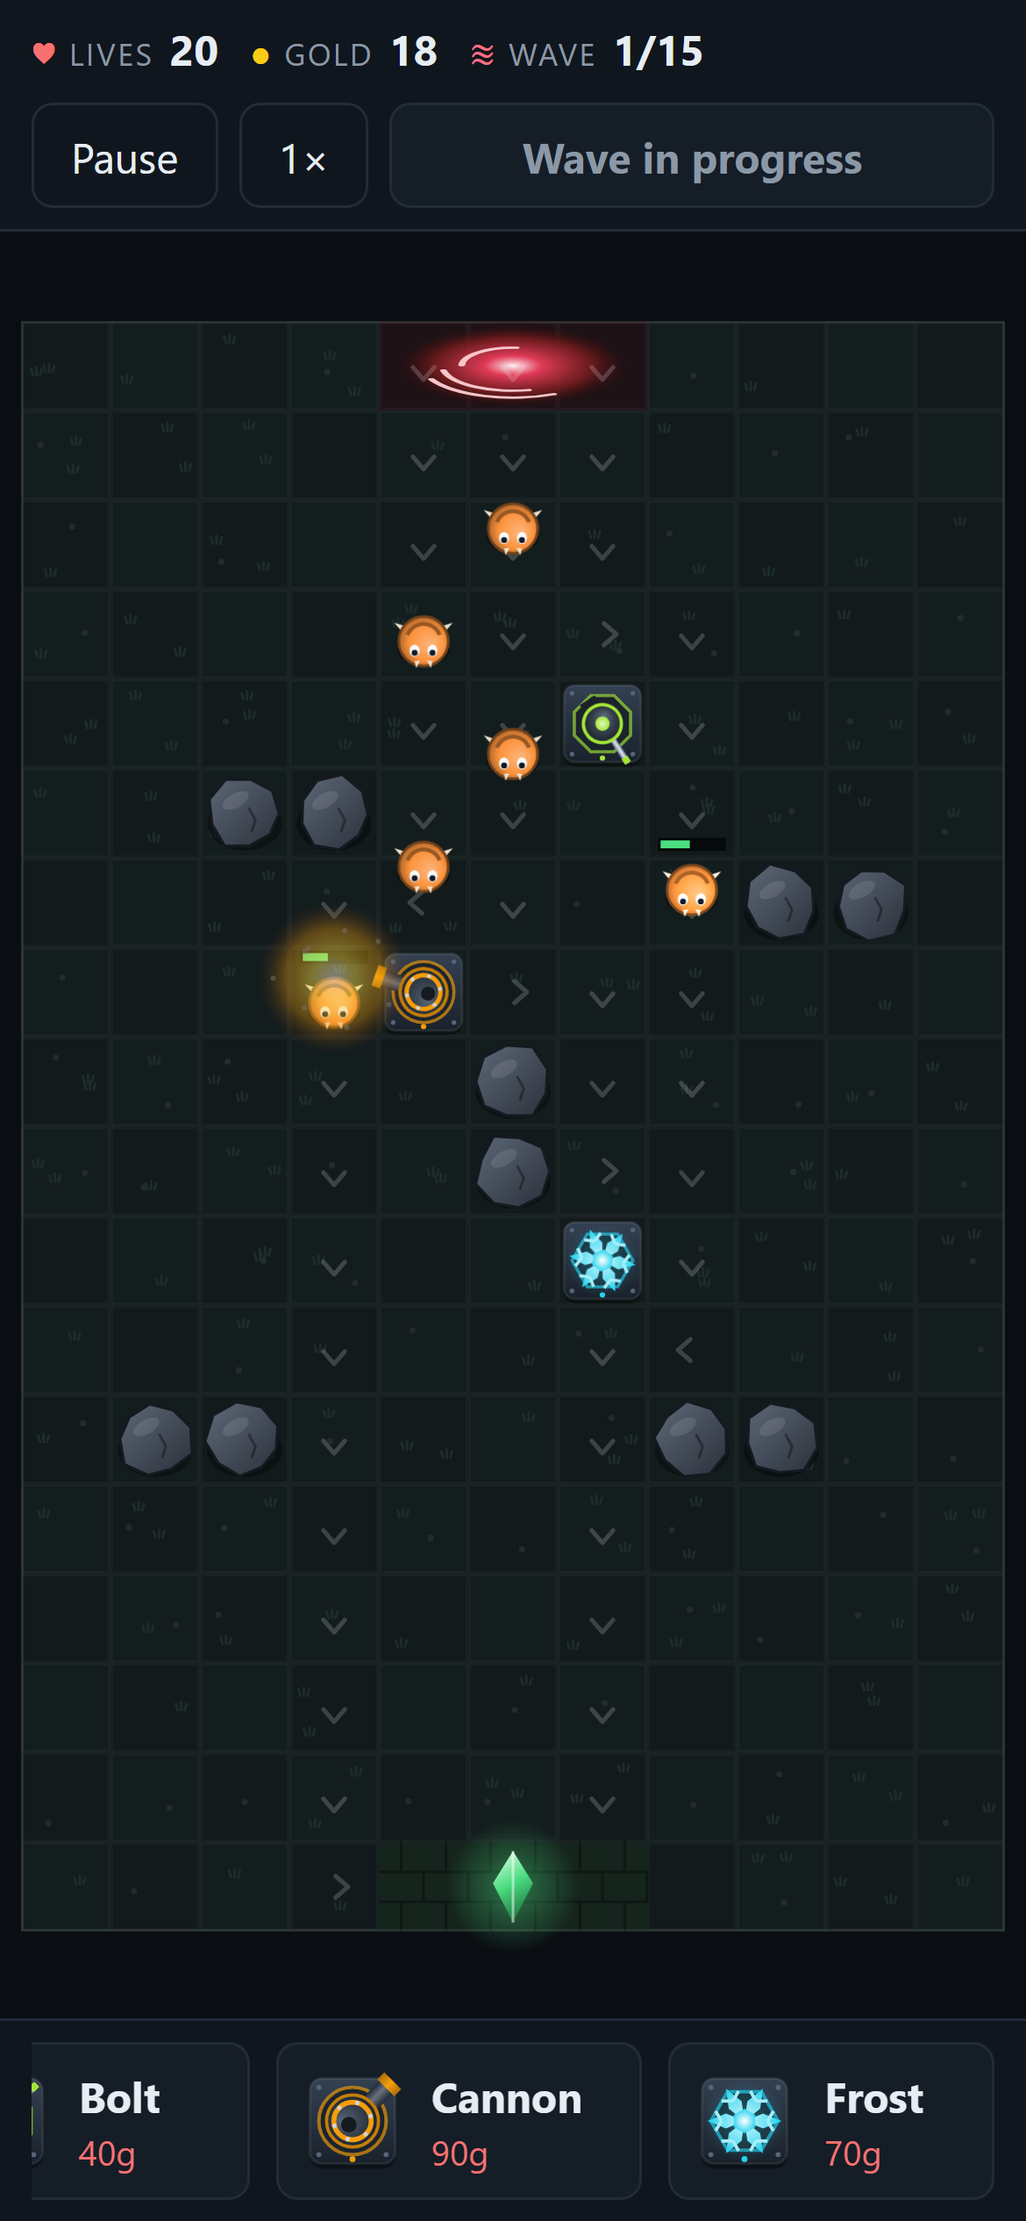
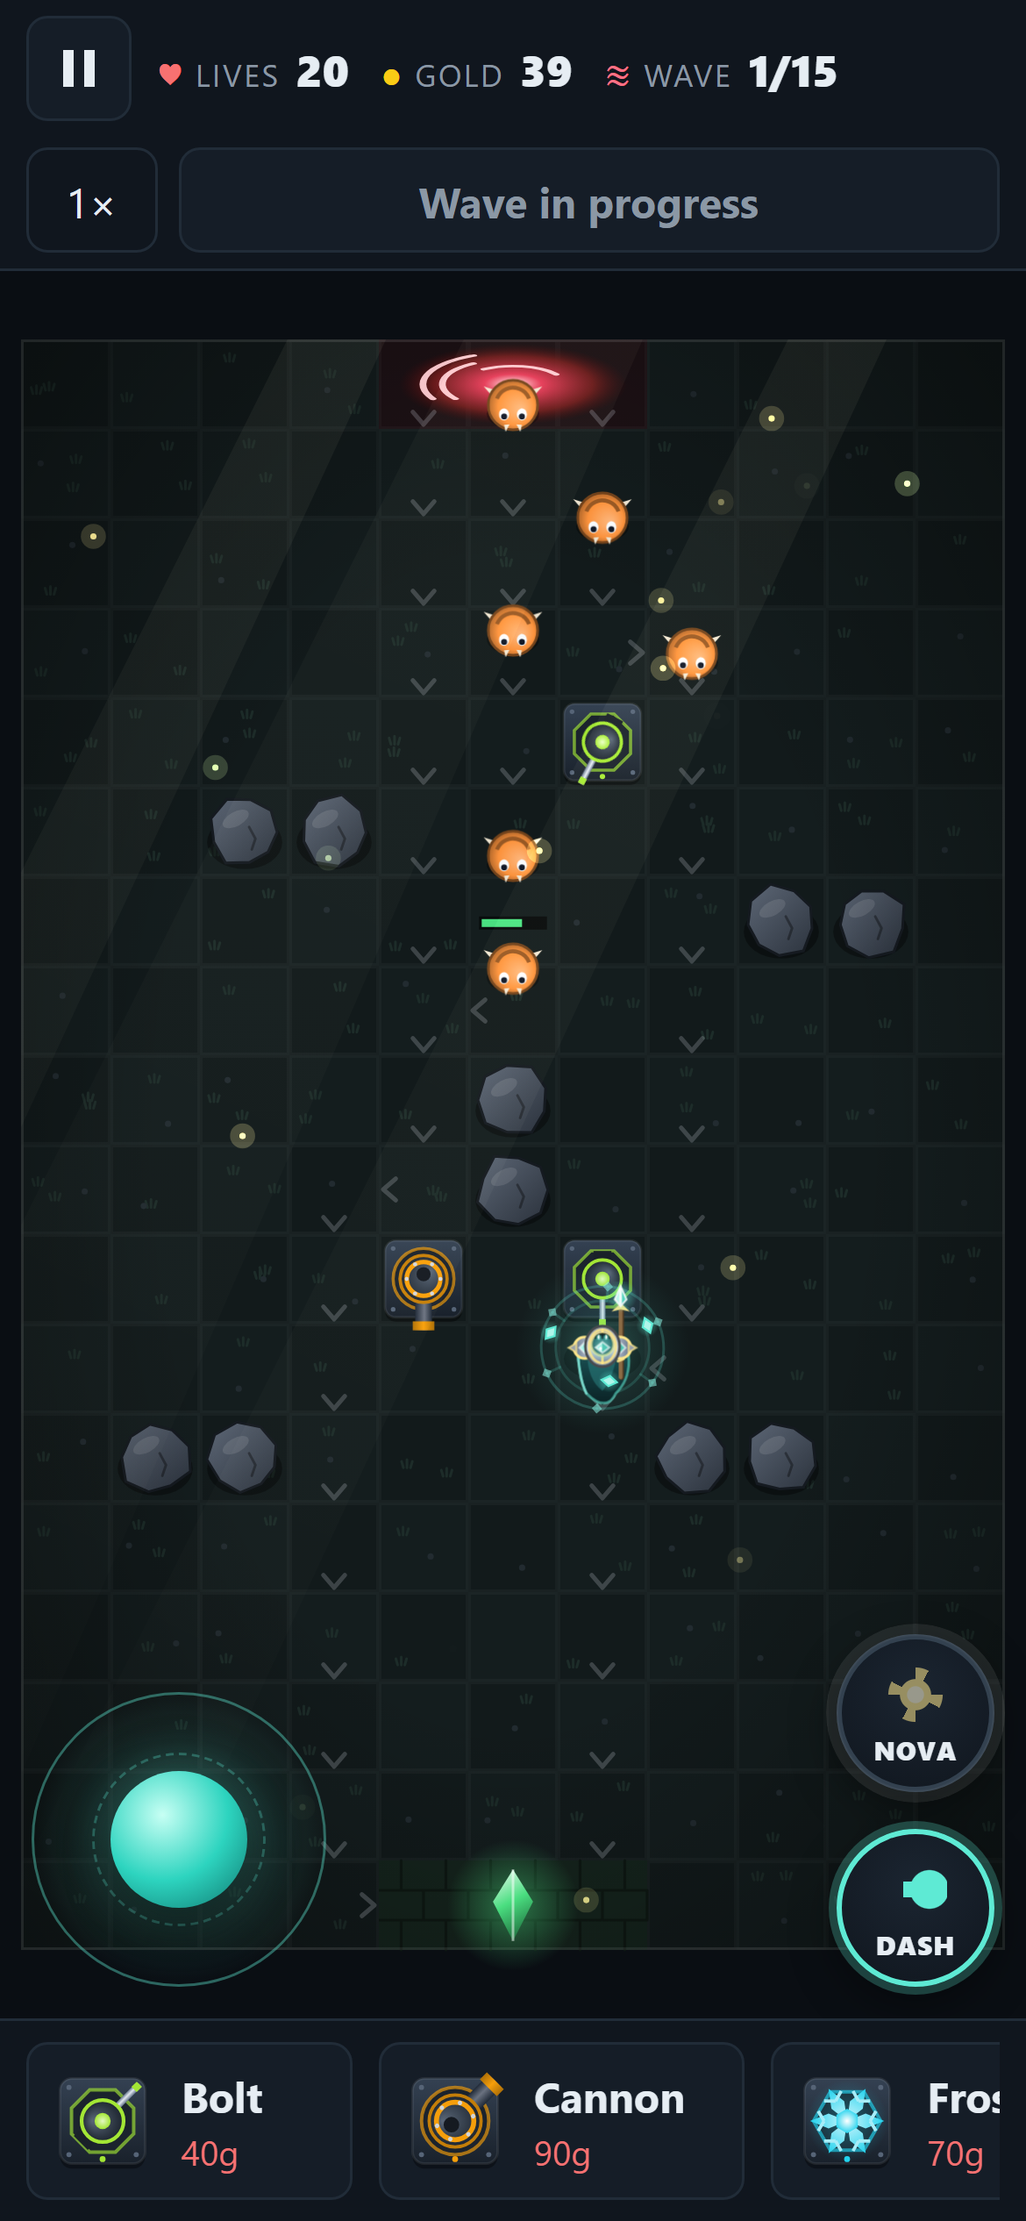
Refresh the README for v2: new pictures, hero ADR, mobile section, current numbers
The three README pictures are retaken from the current game by a new
scripts/readme-screenshots.mjs (npm run assets:readme): the home screen
with a campaign in progress, the Sentinel fighting in the Cinder Fields, and
the phone layout with the stick and hero buttons. The intro now describes
the campaign, Classic mode, six towers, ten monsters, powers, two languages
and the native shells; the architecture diagram gains the audio adapter and
the hero step; ADR 0004 records why the hero lives inside the deterministic
core; the testing table and balance report match today's suite; a Mobile
section explains the Capacitor shells.

diff --git a/README.md b/README.md
@@ -3,41 +3,46 @@
 [![CI](https://github.com/celilcecen/towerdefence/actions/workflows/ci.yml/badge.svg)](https://github.com/celilcecen/towerdefence/actions/workflows/ci.yml)
 [![CodeQL](https://github.com/celilcecen/towerdefence/actions/workflows/codeql.yml/badge.svg)](https://github.com/celilcecen/towerdefence/actions/workflows/codeql.yml)
 
-A maze-building tower defense game for the browser.
+A maze-building tower defense game with a hero on the field, for the browser and for phones.
 
 **▶ Play it: [play.yctechnologies.com.tr](https://play.yctechnologies.com.tr)**
 
-![Gridlock gameplay: towers firing at a wave of grunts on the way to the crystal](docs/screenshot.png)
+![Gridlock gameplay: the Sentinel fighting a wave of grunts in the Cinder Fields while towers line the lane](docs/screenshot.png)
 
 <table>
   <tr>
-    <td width="68%"><img src="docs/start-screen.png" alt="Start screen with how-to-play steps and a visual legend of towers and enemies" /></td>
-    <td width="32%"><img src="docs/mobile.png" alt="Phone layout: the board rotates so the route runs top to bottom" /></td>
+    <td width="68%"><img src="docs/start-screen.png" alt="Home screen: continue the campaign, the campaign map, classic mode, help and settings" /></td>
+    <td width="32%"><img src="docs/mobile.png" alt="Phone layout: the board rotates and the Sentinel is steered from a virtual stick with Dash and Nova buttons" /></td>
   </tr>
   <tr>
-    <td align="center">Start screen: rules and a visual legend drawn by the game's own renderer</td>
-    <td align="center">On phones the board rotates for bigger tap targets</td>
+    <td align="center">Home screen: a story campaign across four regions, plus the original Classic mode</td>
+    <td align="center">On phones the board rotates; the Sentinel is steered from a virtual stick</td>
   </tr>
 </table>
 
 Your towers are the walls. Enemies always take the shortest open route to the exit, so every
 tower you place reshapes the maze they have to walk. You can never seal the path completely;
-the game checks every placement before accepting it. Hold 15 waves across four tower types,
-three upgrade levels and four targeting strategies. And you are on the field too: the Sentinel
-runs the maze you build, fires at anything in reach, dashes through gaps and unleashes a crystal
-Nova when charged. Works with mouse, keyboard and touch (a virtual stick on phones).
+the game checks every placement before accepting it. A 12-level story campaign crosses four
+regions with six tower types, ten kinds of monster (flyers, healers, splitters, two bosses),
+three upgrade levels, four targeting strategies and two powers to aim by hand; Classic mode
+keeps the original 15 waves. And you are on the field too: the Sentinel runs the maze you
+build, fires at anything in reach, dashes through gaps and unleashes a crystal Nova when
+charged. Works with mouse, keyboard and touch (a virtual stick on phones), in English and
+Turkish, and ships as native Android and iOS shells.
 
 ## At a glance
 
-|                      |                                                                                    |
-| -------------------- | ---------------------------------------------------------------------------------- |
-| Runtime dependencies | **0**. TypeScript, Canvas 2D and the DOM only                                      |
-| Unit tests           | **277**, with **99% statement / 96% branch** coverage of all game logic            |
-| End-to-end tests     | **26**. Playwright on desktop and mobile Chromium, under the production CSP        |
-| Art assets           | **0 files**. Every tower, enemy and effect is drawn in code and cached as a sprite |
-| Balance guardrails   | Headless bots play the full campaign on 8 seeds in CI                              |
-| Static analysis      | `strictTypeChecked` ESLint, strictest TypeScript flags, CodeQL `security-extended` |
-| Delivery             | GitHub Actions pinned to commit SHAs, atomic releases with instant rollback        |
+|                      |                                                                                         |
+| -------------------- | --------------------------------------------------------------------------------------- |
+| Runtime dependencies | **0** on the web. TypeScript, Canvas 2D, Web Audio and the DOM only                     |
+| Unit tests           | **277**, with **99% statement / 96% branch** coverage of all game logic                 |
+| End-to-end tests     | **26**. Playwright on desktop and mobile Chromium, under the production CSP             |
+| Art and sound assets | **0 files**. Every tower, enemy, hero, effect and sound is generated in code            |
+| Balance guardrails   | Headless bots play all 12 levels and Classic on several seeds in CI                     |
+| Platforms            | Web (static, offline-capable), Android and iOS through [Capacitor](capacitor.config.ts) |
+| Languages            | English and Turkish, every string in [`src/i18n`](src/i18n)                             |
+| Static analysis      | `strictTypeChecked` ESLint, strictest TypeScript flags, CodeQL `security-extended`      |
+| Delivery             | GitHub Actions pinned to commit SHAs, atomic releases with instant rollback             |
 
 ## Architecture
 
@@ -51,15 +56,17 @@ flowchart LR
     UI["ui/<br/>DOM chrome"]
     Input["input/<br/>pointer + keyboard"]
     Render["render/<br/>Canvas 2D"]
-    Platform["platform/<br/>localStorage"]
+    Audio["audio/<br/>Web Audio synth"]
+    Platform["platform/<br/>storage + native bridge"]
   end
-  App["app/<br/>session + fixed-step loop"]
+  App["app/<br/>session, coach, fixed-step loop"]
   Core["core/<br/>deterministic simulation"]
-  Content["content/<br/>towers, enemies, waves, map"]
+  Content["content/<br/>campaign, story, towers, enemies, heroes, powers"]
 
   UI --> App
   Input --> App
   Render --> Core
+  Audio --> Core
   App --> Core
   Platform -. implements RecordStore port .-> Core
   Content --> Core
@@ -80,15 +87,19 @@ the core.
    `heroDash`, `heroNova`), validated at runtime. Even the hero's stick input is a command, so
    a replay log reproduces a whole game, hero and all.
 3. [`Simulation.step()`](src/core/simulation.ts) runs its systems in a fixed order: spawn →
-   move → abilities → hero → towers → projectiles → resolution.
+   move → abilities → hero → towers → projectiles → power cooldown → resolution.
 4. The renderer draws a read-only `WorldView`, interpolating between ticks for smooth motion.
    Procedural [artwork](src/render/art) is painted once per cell size into a
    [`SpriteCache`](src/render/sprite-cache.ts), so a frame is mostly `drawImage` calls; the
    terrain is a single cached layer.
-5. Systems publish typed events (`enemyKilled`, `waveCleared`, …); visual effects, turret aim
-   and UI subscribe without the core knowing they exist. Presentation wording (tower roles,
-   enemy traits, the next-wave preview) is [derived from content data](src/ui/describe.ts), so
-   new content explains itself.
+5. Systems publish typed events (`enemyKilled`, `waveCleared`, `heroNova`, …); visual
+   effects, turret aim, sound cues, haptics and UI subscribe without the core knowing they
+   exist. Presentation wording (tower roles, enemy traits, the next-wave preview) is
+   [derived from content data](src/ui/describe.ts), so new content explains itself.
+6. The [hero](src/core/systems/hero.ts) is ordinary simulation state driven by the same
+   commands as everything else. What makes it _look_ alive (a rippling cloak, recoil, dash
+   streaks, the Nova wash) lives entirely in [`src/render`](src/render/art/hero.ts) and reacts
+   to events.
 
 A seed plus the command log reproduces a game exactly, which the test suite verifies
 tick for tick with a state hash.
@@ -108,16 +119,18 @@ tick for tick with a state hash.
 - [ADR 0001: Deterministic, fixed-timestep simulation core](docs/adr/0001-deterministic-fixed-timestep-simulation.md)
 - [ADR 0002: Flow-field pathfinding instead of per-enemy A*](docs/adr/0002-flow-field-pathfinding.md)
 - [ADR 0003: Content as validated data, guarded by balance bots](docs/adr/0003-content-as-data-and-balance-bots.md)
+- [ADR 0004: The hero is a layer inside the deterministic core](docs/adr/0004-hero-as-a-layer-inside-the-core.md)
+  (see also the [Sentinel design note](docs/designs/sentinel-hero-layer.md))
 
 ## Testing strategy
 
-| Layer       | What it proves                                                                                                                                                                                                                           | Where                                            |
-| ----------- | ---------------------------------------------------------------------------------------------------------------------------------------------------------------------------------------------------------------------------------------- | ------------------------------------------------ |
-| Unit        | Grid parsing, flow field, damage and armor, slows, every targeting strategy, every command and rejection reason, content validation, session rules, loop timing, storage failure modes, sprite caching, turret aim, derived descriptions | [`tests/`](tests)                                |
-| Determinism | Same seed and commands give identical state every tick; replays equal live play                                                                                                                                                          | [`simulation.test.ts`](tests/simulation.test.ts) |
-| Balance     | Doing nothing loses fast, towers without a maze never win, a planned maze wins while still losing lives                                                                                                                                  | [`balance.test.ts`](tests/balance.test.ts)       |
-| End-to-end  | Real build, real headers, desktop and mobile: play, build, fight, upgrade, sell, shortcuts, visual legend, canvases actually painted; fails on any console error or CSP violation                                                        | [`e2e/`](e2e)                                    |
-| Deployment  | nginx sends exactly the headers the e2e suite ran under; HTML contains nothing the CSP would block                                                                                                                                       | [`deploy.test.ts`](tests/deploy.test.ts)         |
+| Layer       | What it proves                                                                                                                                                                                                                                                                                                                                                                                                               | Where                                                                                                    |
+| ----------- | ---------------------------------------------------------------------------------------------------------------------------------------------------------------------------------------------------------------------------------------------------------------------------------------------------------------------------------------------------------------------------------------------------------------------------- | -------------------------------------------------------------------------------------------------------- |
+| Unit        | Grid parsing, flow field, damage and armor, slows, every targeting strategy, every command and rejection reason, content and campaign validation, the hero (movement, wall sliding, eviction, fire, charge, dash, Nova, down and respawn), session rules, the onboarding coach, sound cues and limiter, translations, loop timing, storage failure modes, sprite caching, turret aim, effect timelines, derived descriptions | [`tests/`](tests)                                                                                        |
+| Determinism | Same seed and commands give identical state every tick, hero included; replays equal live play                                                                                                                                                                                                                                                                                                                               | [`simulation.test.ts`](tests/simulation.test.ts), [`hero.test.ts`](tests/hero.test.ts)                   |
+| Balance     | Doing nothing loses fast, towers without a maze never win, a planned maze wins every level while still losing lives; the bots never use the hero, so no level depends on it                                                                                                                                                                                                                                                  | [`balance.test.ts`](tests/balance.test.ts), [`campaign-balance.test.ts`](tests/campaign-balance.test.ts) |
+| End-to-end  | Real build, real headers, desktop and mobile: tutorial, campaign briefing and locks, classic mode, language switch, build, fight, upgrade, sell, shortcuts, steering the Sentinel from stick and keyboard, canvases actually painted; fails on any console error or CSP violation                                                                                                                                            | [`e2e/`](e2e)                                                                                            |
+| Deployment  | nginx sends exactly the headers the e2e suite ran under; HTML contains nothing the CSP would block                                                                                                                                                                                                                                                                                                                           | [`deploy.test.ts`](tests/deploy.test.ts)                                                                 |
 
 ```text
 $ npm run balance
@@ -125,8 +138,17 @@ $ npm run balance
 Balance report (8 seeds)
 idle   wins 0/8   avg wave  2.0   avg lives left  0.0
 wall   wins 0/8   avg wave  4.4   avg lives left  0.0
-maze   wins 8/8   avg wave 15.0   avg lives left  8.4
+maze   wins 8/8   avg wave 15.0   avg lives left  9.8
+Campaign balance (6 seeds, 8+ waves per level)
+c1-crossing  idle 0/6 w3.0 ♥0.0    hug 6/6 w8.0 ♥20.0    maze 6/6 w8.0 ♥20.0
+c2-gate      idle 0/6 w2.0 ♥0.0    hug 0/6 w9.8 ♥0.0     maze 6/6 w14.0 ♥14.0
+c3-keep      idle 0/6 w2.0 ♥0.0    hug 2/6 w15.0 ♥6.3    maze 5/6 w15.0 ♥13.0
+c4-heart     idle 0/6 w2.0 ♥0.0    hug 0/6 w8.2 ♥0.0     maze 6/6 w18.0 ♥13.0
+maze lives by chapter: greenreach ♥20.0  frostmarch ♥18.0  ashlands ♥12.3  rift ♥11.5
 ```
+
+The difficulty curve is visible in the last line: the maze bot keeps fewer lives in each
+later chapter. The full table lists all 12 levels.
 
 ## Security
 
@@ -150,6 +172,23 @@ npm run verify     # format, lint, types, unit tests with coverage, build, e2e
 | `npm run test:coverage` | Unit, determinism, balance and deployment tests with coverage thresholds                     |
 | `npm run e2e`           | Playwright against the production build and headers (`npx playwright install chromium` once) |
 | `npm run balance`       | Prints the bot outcome table after changing content                                          |
+| `npm run assets:readme` | Retakes the three README pictures from the running game                                      |
+| `npm run assets:app`    | Renders the app icon and splash screens for both native shells                               |
+| `npm run assets:store`  | Captures store screenshots and the feature graphic in every language                         |
+
+## Mobile
+
+The same build runs inside [Capacitor](capacitor.config.ts) shells for Android and iOS
+(`android/`, `ios/`, app id `tr.com.yctechnologies.gridlock`). The web bundle is packaged
+into the app, so it plays fully offline. The native layer only adds what the web cannot do
+well: haptics on dashes, Novas and hits, a dark status bar and a splash that hides once the
+game has painted. On phones the board rotates so the route runs top to bottom, the Sentinel
+is steered from a fixed virtual stick, and Dash and Nova sit under the right thumb.
+
+```bash
+npm run build && npx cap sync   # copy the web build into both shells
+npx cap open android            # Android Studio; iOS needs Xcode on a Mac
+```
 
 ## Deployment
 

diff --git a/docs/adr/0004-hero-as-a-layer-inside-the-core.md b/docs/adr/0004-hero-as-a-layer-inside-the-core.md
@@ -1,0 +1,44 @@
+# ADR 0004: The hero is a layer inside the deterministic core
+
+- Status: accepted
+- Date: 2026-09-16
+
+## Context
+
+Tower defense reads as "place, then watch". To make Gridlock feel interactive the player
+should have a body on the field: something that moves, shoots and can be hurt. The obvious
+shortcuts (a separate real-time loop for the hero, or reading input straight from the
+renderer) would break the two properties the engine is built on: a DOM-free core and
+replayable, hash-checked games.
+
+## Decision
+
+- The hero (the Sentinel) is ordinary simulation state: `WorldState.hero`, updated by
+  `HeroSystem` in the fixed system order (spawn → move → abilities → **hero** → towers →
+  projectiles → power cooldown → resolution). It moves at the tick rate like everything else.
+- Player intent reaches it only as commands: `moveHero` (a direction vector, normalised and
+  validated), `heroDash` and `heroNova`. The virtual stick, the keyboard and a replay log all
+  produce the same commands, so a seed plus the command log still reproduces a whole game,
+  hero included, and `hashWorld` covers the hero's position, health, timers and charge.
+- The hero fires ordinary projectiles with `towerId = HERO_ID (0)`, so the projectile,
+  damage and resolution systems need no special case. Only the charge rule looks at the id:
+  Nova charge comes from the hero's own hits, never from towers.
+- Content, not code, defines the hero (`HeroDef`: health, speed, attack, dash, nova, contact
+  damage, regen, respawn). Levels pick a hero by id; `validateCampaign` and `validateContent`
+  check every number. Levels without a hero simply have `hero: undefined`.
+- Towers are walls for the hero too. Placing a tower on the hero's cell evicts it to the
+  nearest free cell, so the maze rules never bend for the hero.
+- The balance bots ignore the hero. Every level must stay winnable by mazing alone; the hero
+  adds margin and fun, never a requirement.
+- Everything that makes the hero _look_ alive (cloak poses, recoil, dash streaks, the Nova
+  wash, the respawn pillar) lives in `src/render` and reacts to events (`heroFired`,
+  `heroDashed`, `heroNova`, …). The core does not know it is being drawn.
+
+## Consequences
+
+- The hero cost no new architecture: three commands, one system, a few events and a state
+  slice, all covered by the same determinism tests as the rest.
+- Input latency is bounded by the tick (1/30 s). Movement is smoothed by the renderer's
+  interpolation, the same way enemies are.
+- The renderer draws the hero a fifth larger than its collision circle so it reads at phone
+  size; collisions are still resolved on the small circle, so the extra size is purely visual.
